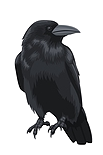
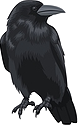
Getting characters drawing right  hmmm

diff --git a/render.js b/render.js
@@ -27,7 +27,7 @@ let blitWholeRect = (image, dx,dy, dw,dh, alpha) => {
 let blitRect = (image, sx,sy, sw,sh, dx,dy, dw,dh, alpha) => {
     const oga = context.globalAlpha;
     context.globalAlpha = alpha;
-    slowLog(`blitting sx ${sx} sy ${sy} sw ${sw} sh ${sh} dx ${dx} dy ${dy} dw ${dw} dh ${dh} alpha ${alpha}`);
+    // slowLog(`blitting sx ${sx} sy ${sy} sw ${sw} sh ${sh} dx ${dx} dy ${dy} dw ${dw} dh ${dh} alpha ${alpha}`);
     context.drawImage(image, sx,sy, sw,sh, dx,dy, dw,dh);
     context.globalAlpha = oga;
 };
@@ -113,6 +113,8 @@ let distance = (a, b) => {
 let music = null;
 let frameCorrelator = Math.random();
 raven = Raven(7,2);
+let characters = [];
+characters.push(raven);
 function update(delta) {
     frameCorrelator = Math.random();
 
@@ -191,10 +193,10 @@ function draw() {
     slowLog(`********** draw`);
     clear();
 
-    let characters = [];
-    characters.push(raven);
-
     // *********** scan for walls
+    let dist = (thing) => {
+        return (player.x - thing.x)**2 + (player.y - thing.y)**2;
+    }
     function* rayGen(){
         let target = new Victor(player.x, player.y);
         let f = player.facing.clone();
@@ -206,17 +208,20 @@ function draw() {
         f.multiplyScalar(2/slices);
         for (let x = 0; x <= slices; x++){
             let next = new Victor(target.x-player.x, target.y-player.y);
+            next.normalize();
             // slowLog(`target ${target} next ${next}`);
             yield next;
             target.add(f);
         }
     }
+
     rayGen = rayGen();
     let sliceHeight = 0;
     let nextRay = rayGen.next().value;
     let nextWallPoint = findCollisionPoint(map, new Victor(player.x, player.y), nextRay);
     let thingsToDraw = [];
     for (let x = 0; x < width; x += sliceWidth) {
+        let ray = nextRay;
         const wallPoint = nextWallPoint;
         nextRay = rayGen.next().value;
         if (nextRay) nextWallPoint = findCollisionPoint(map, new Victor(player.x, player.y), nextRay);
@@ -247,6 +252,8 @@ function draw() {
 
         thingsToDraw.push({
             type: 'wall',
+            x: wallPoint.x,
+            y: wallPoint.y,
             image: tex,
             sx: sx,
             sy: sy,
@@ -261,25 +268,41 @@ function draw() {
     }
 
     for (let c of characters) {
-        for (let x = 0; x < c.images.length; x++) {
-            let i = c.images[x];
-            let a = c.alphas[x];
+        let dot = player.facing.dot(new Victor(c.x - player.x, c.y - player.y));
+        slowLog(`dot to char ${dot}`);
+        if (dot < 0) continue;
+        let d = dist(c);
+
+        let dh = height/(2*d);
+        let dy = height/2;
+
+        for (let k = 0; k < c.images.length; k++) {
+            let i = c.images[k];
+            let a = c.alphas[k];
+            let dw = i.width * (dh/i.height);
             thingsToDraw.push({
                 type: 'character',
+                x: c.x,
+                y: c.y,
                 image: i,
-                dx: width/2,
-                dy: height/2,
-                dw: i.width,
-                dh: i.height,
+                dx: width/2 - dw/2,
+                dy: dy,
+                dw: dw,
+                dh: dh,
                 alpha: a,
             });
         }
     }
 
+    thingsToDraw.sort((a,b) => {
+        if (dist(a) === dist(b)) return 0;
+        if (dist(a) > dist(b)) return -1;
+        return 1;
+    });
     for (let x = 0; x < thingsToDraw.length; x++) {
         let t = thingsToDraw[x];
         if (t.type === `wall`) {
-            drawRect(t.dx, t.dy, t.dw, t.dh, [0, 0, 0, 255]);
+            drawRect(t.dx,t.dy, t.dw,t.dh, [0, 0, 0, 255]);
             blitRect(t.image, t.sx, t.sy, t.sw, t.sh, t.dx, t.dy, t.dw, t.dh, t.alpha);
         }
         if (t.type === `character`) {

diff --git a/utils.js b/utils.js
@@ -102,7 +102,7 @@ let getPointDistanceFromCameraPlane = (point, camPoint, camFacing) => {
     return distanceFromPointToLine(point, a,b);
 };
 let getCollidedWallNormal = (x,y) => {
-    slowLog(`getting normal for ${x} ${y}`);
+    // slowLog(`getting normal for ${x} ${y}`);
     let eq = (x,y) => {
         return Math.abs(x - y) < 0.00000001;
     }
@@ -314,7 +314,7 @@ testVerbose = (msg) => { }
 let a = new Victor(0,-1);
 let b = new Victor(0,-1);
 for (let x = 0; x < 8; x++) {
-    console.log(`${a} dot ${b} = ${a.dot(b)}`);
+    // console.log(`${a} dot ${b} = ${a.dot(b)}`);
     // console.log(`${a} cross ${b} = ${a.cross(b)}`);
     b = rotateBy(b, Math.PI/4);
 }
